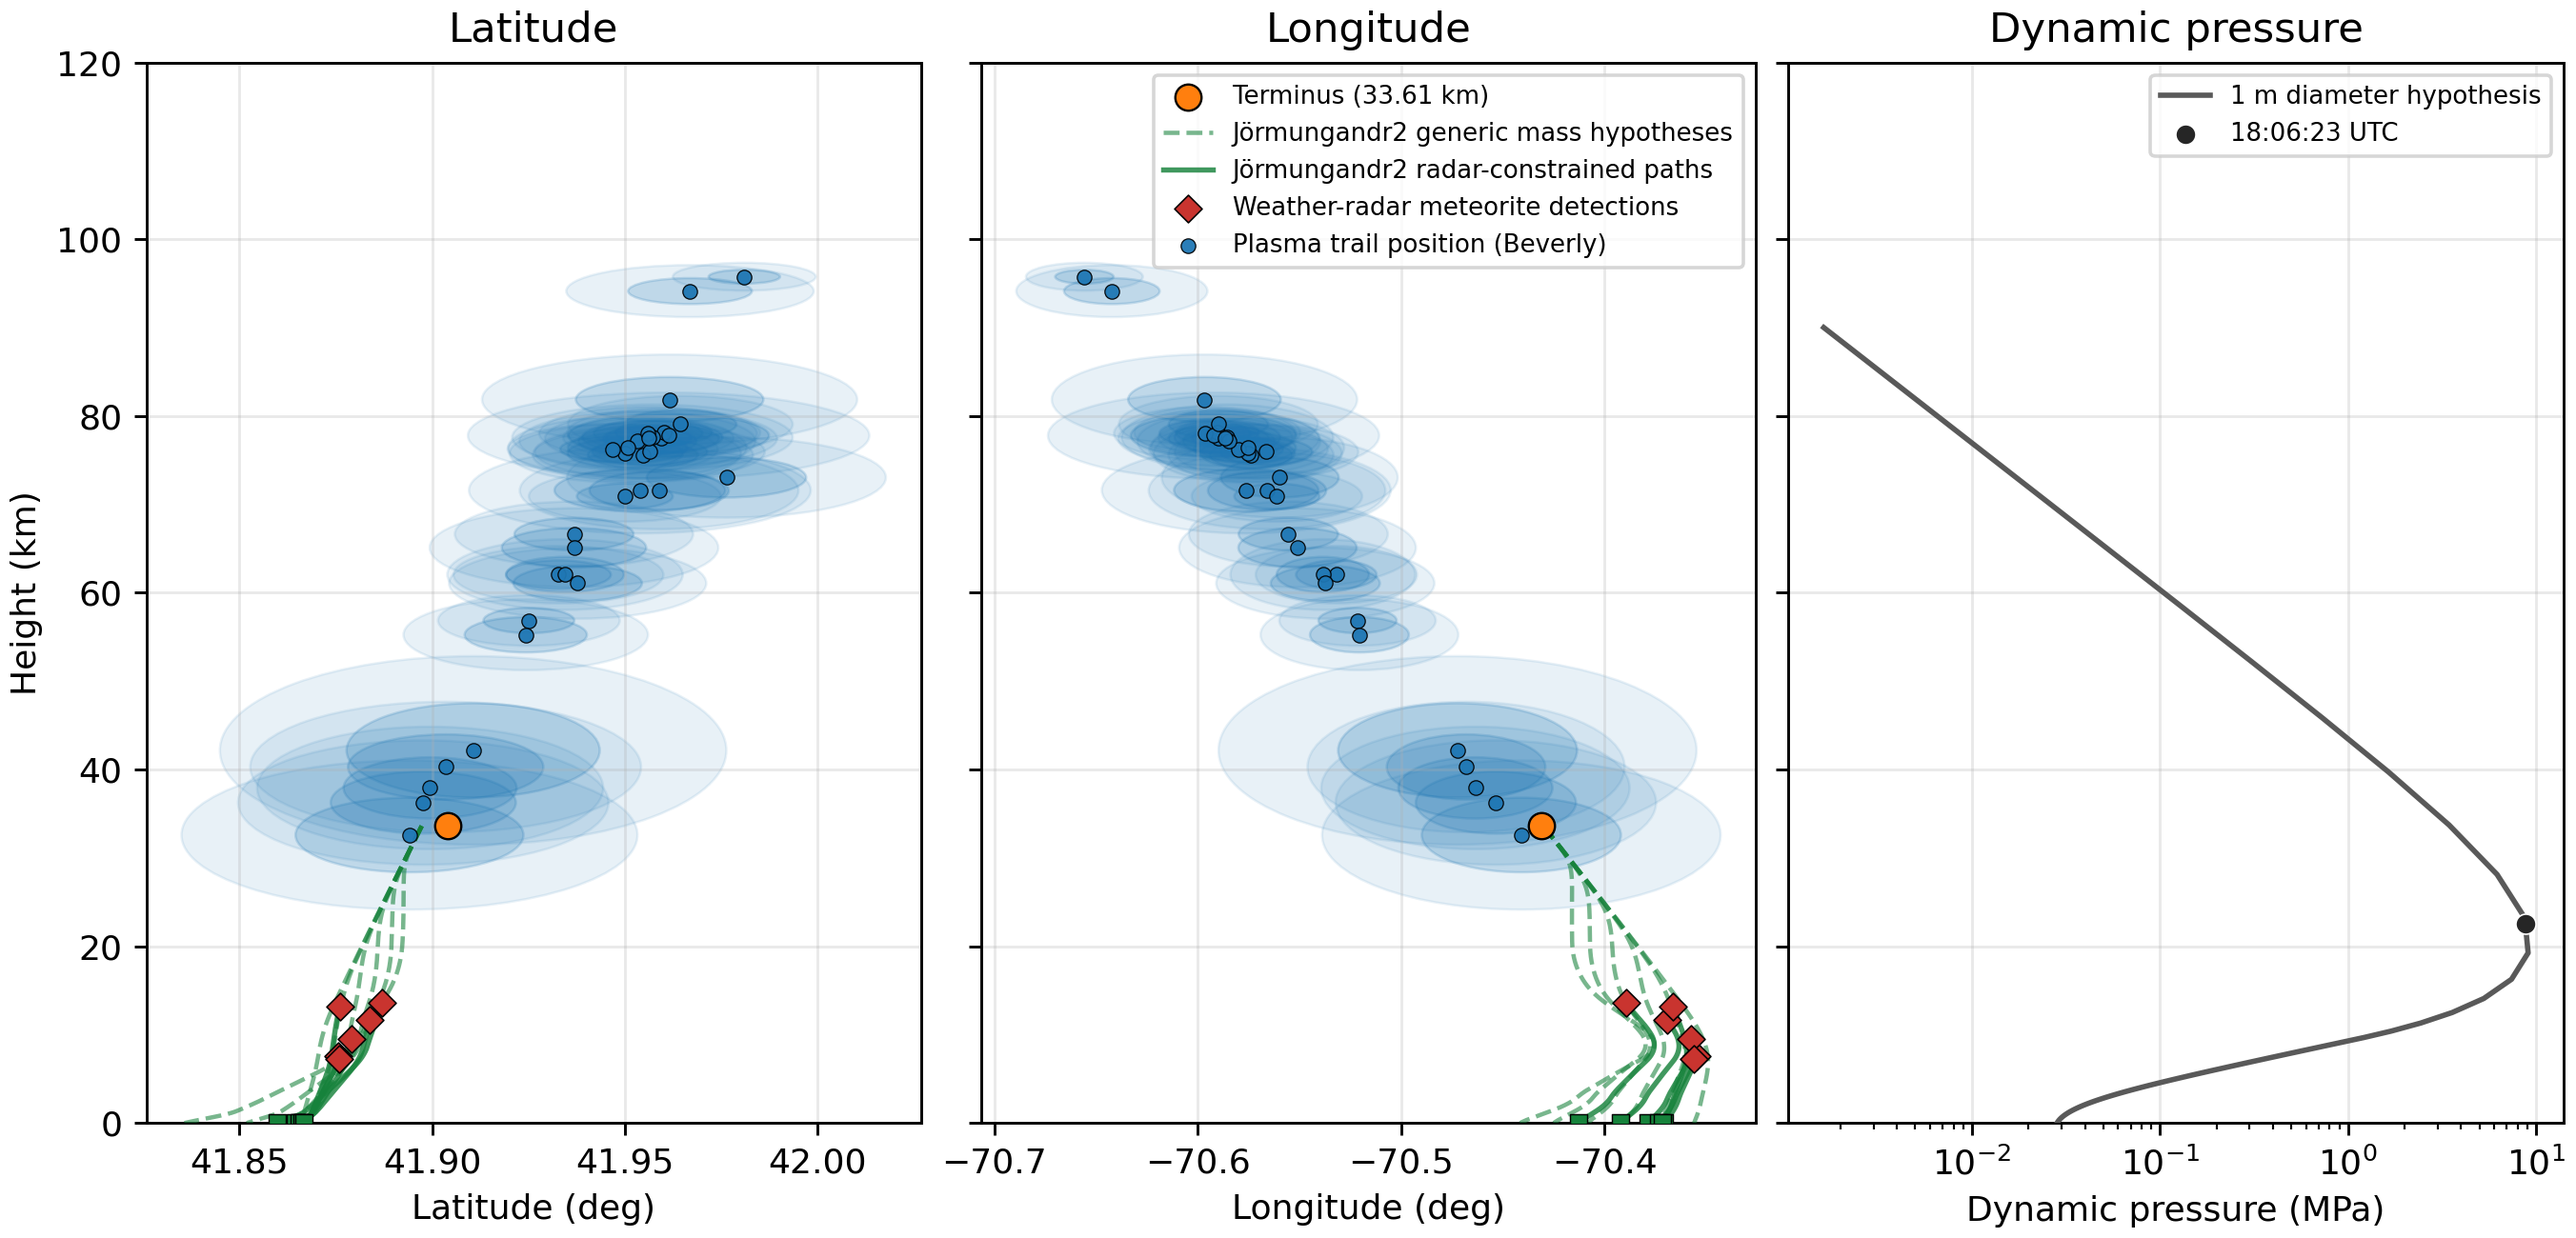
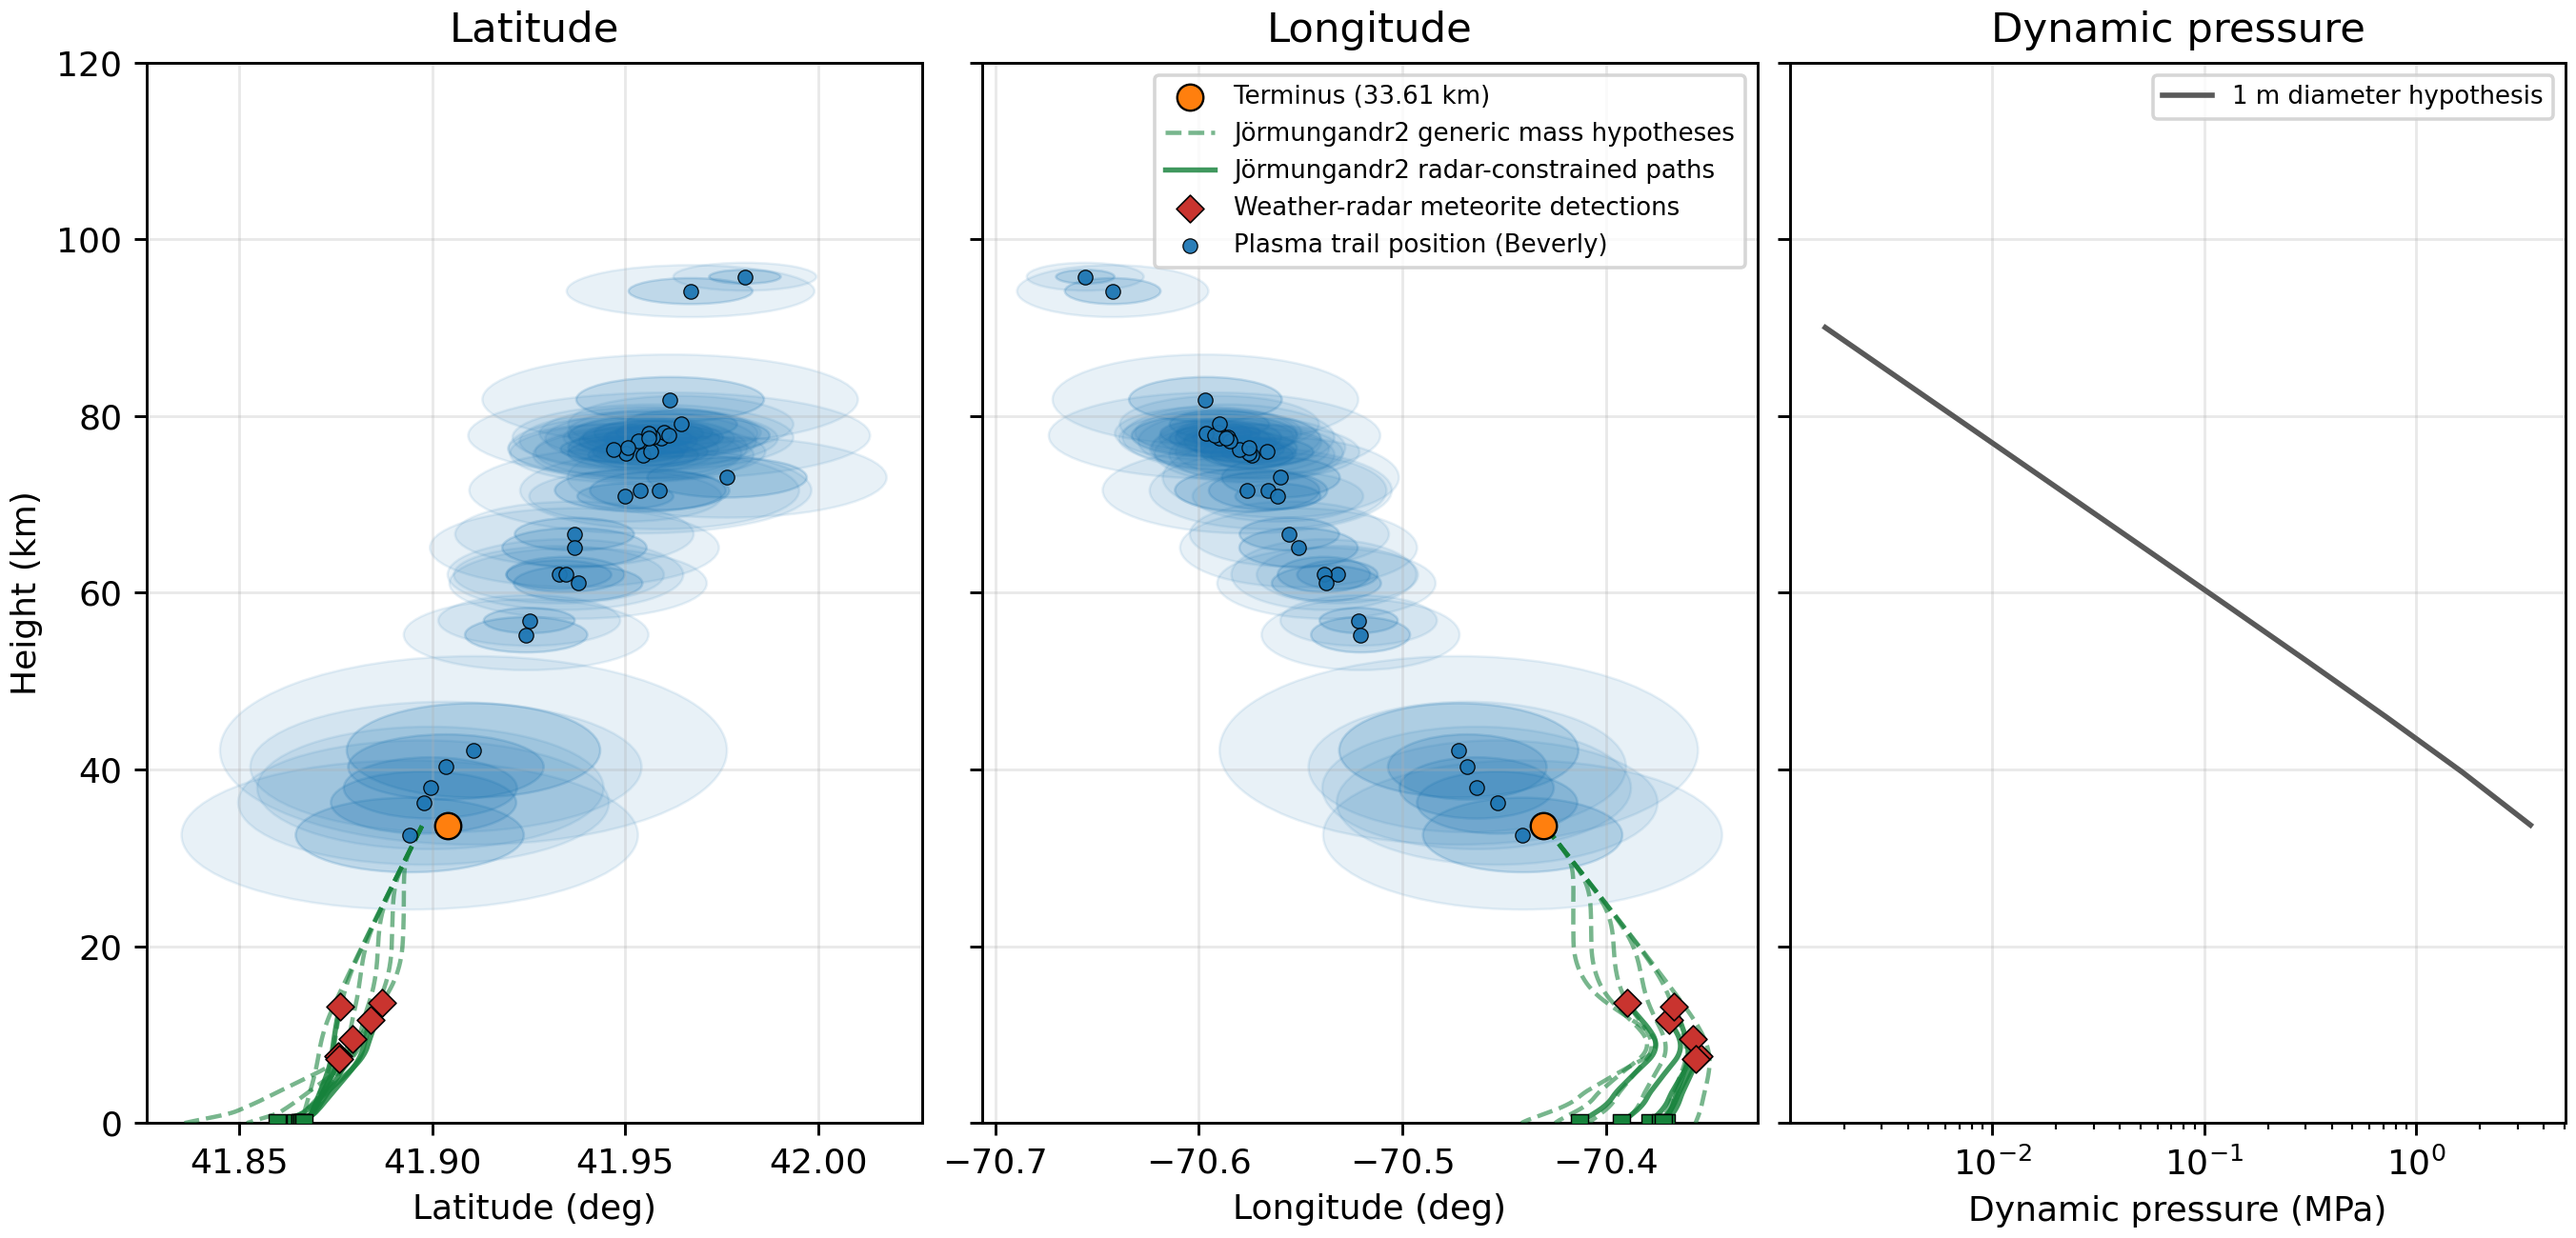
Clip Figure 5 pressure curve at terminus

diff --git a/reports/plot_fragment_size_hypotheses.py b/reports/plot_fragment_size_hypotheses.py
@@ -532,7 +532,6 @@ def make_plot(
     ax_lat, ax_lon, ax_q = axes
     linestyles = ["-", "--", ":", "-.", (0, (3, 1, 1, 1, 1, 1))]
 
-    marker_label_added = False
     for idx, path in enumerate(paths):
         label = f"{path['diameter_m']:g} m diameter hypothesis"
         style = linestyles[idx % len(linestyles)]
@@ -540,25 +539,16 @@ def make_plot(
         q_plot = np.where(q > 0.0, q, np.nan)
         show_dynamic_pressure = np.isclose(float(path["diameter_m"]), 1.0)
         if show_dynamic_pressure:
-            ax_q.plot(q_plot, path["alt_km"], color="0.35", lw=1.55, linestyle=style, label=label, zorder=4)
-        marker = interp_path_at_time(path, marker_time_unix) if show_dynamic_pressure else None
-        if marker is not None:
-            marker_label = None
-            if not marker_label_added:
-                marker_label = "18:06:23 UTC"
-                marker_label_added = True
-            if marker["dynamic_pressure_mpa"] > 0.0:
-                ax_q.scatter(
-                    [marker["dynamic_pressure_mpa"]],
-                    [marker["alt_km"]],
-                    marker="o",
-                    s=34,
-                    color="0.15",
-                    edgecolor="white",
-                    linewidth=0.45,
-                    label=marker_label,
-                    zorder=7,
-                )
+            above_terminus = np.asarray(path["alt_km"], dtype=float) >= float(terminus_marker["alt_km"])
+            ax_q.plot(
+                q_plot[above_terminus],
+                np.asarray(path["alt_km"], dtype=float)[above_terminus],
+                color="0.35",
+                lw=1.55,
+                linestyle=style,
+                label=label,
+                zorder=4,
+            )
 
     if terminus_marker:
         terminus_alt_km = float(terminus_marker["alt_km"])
